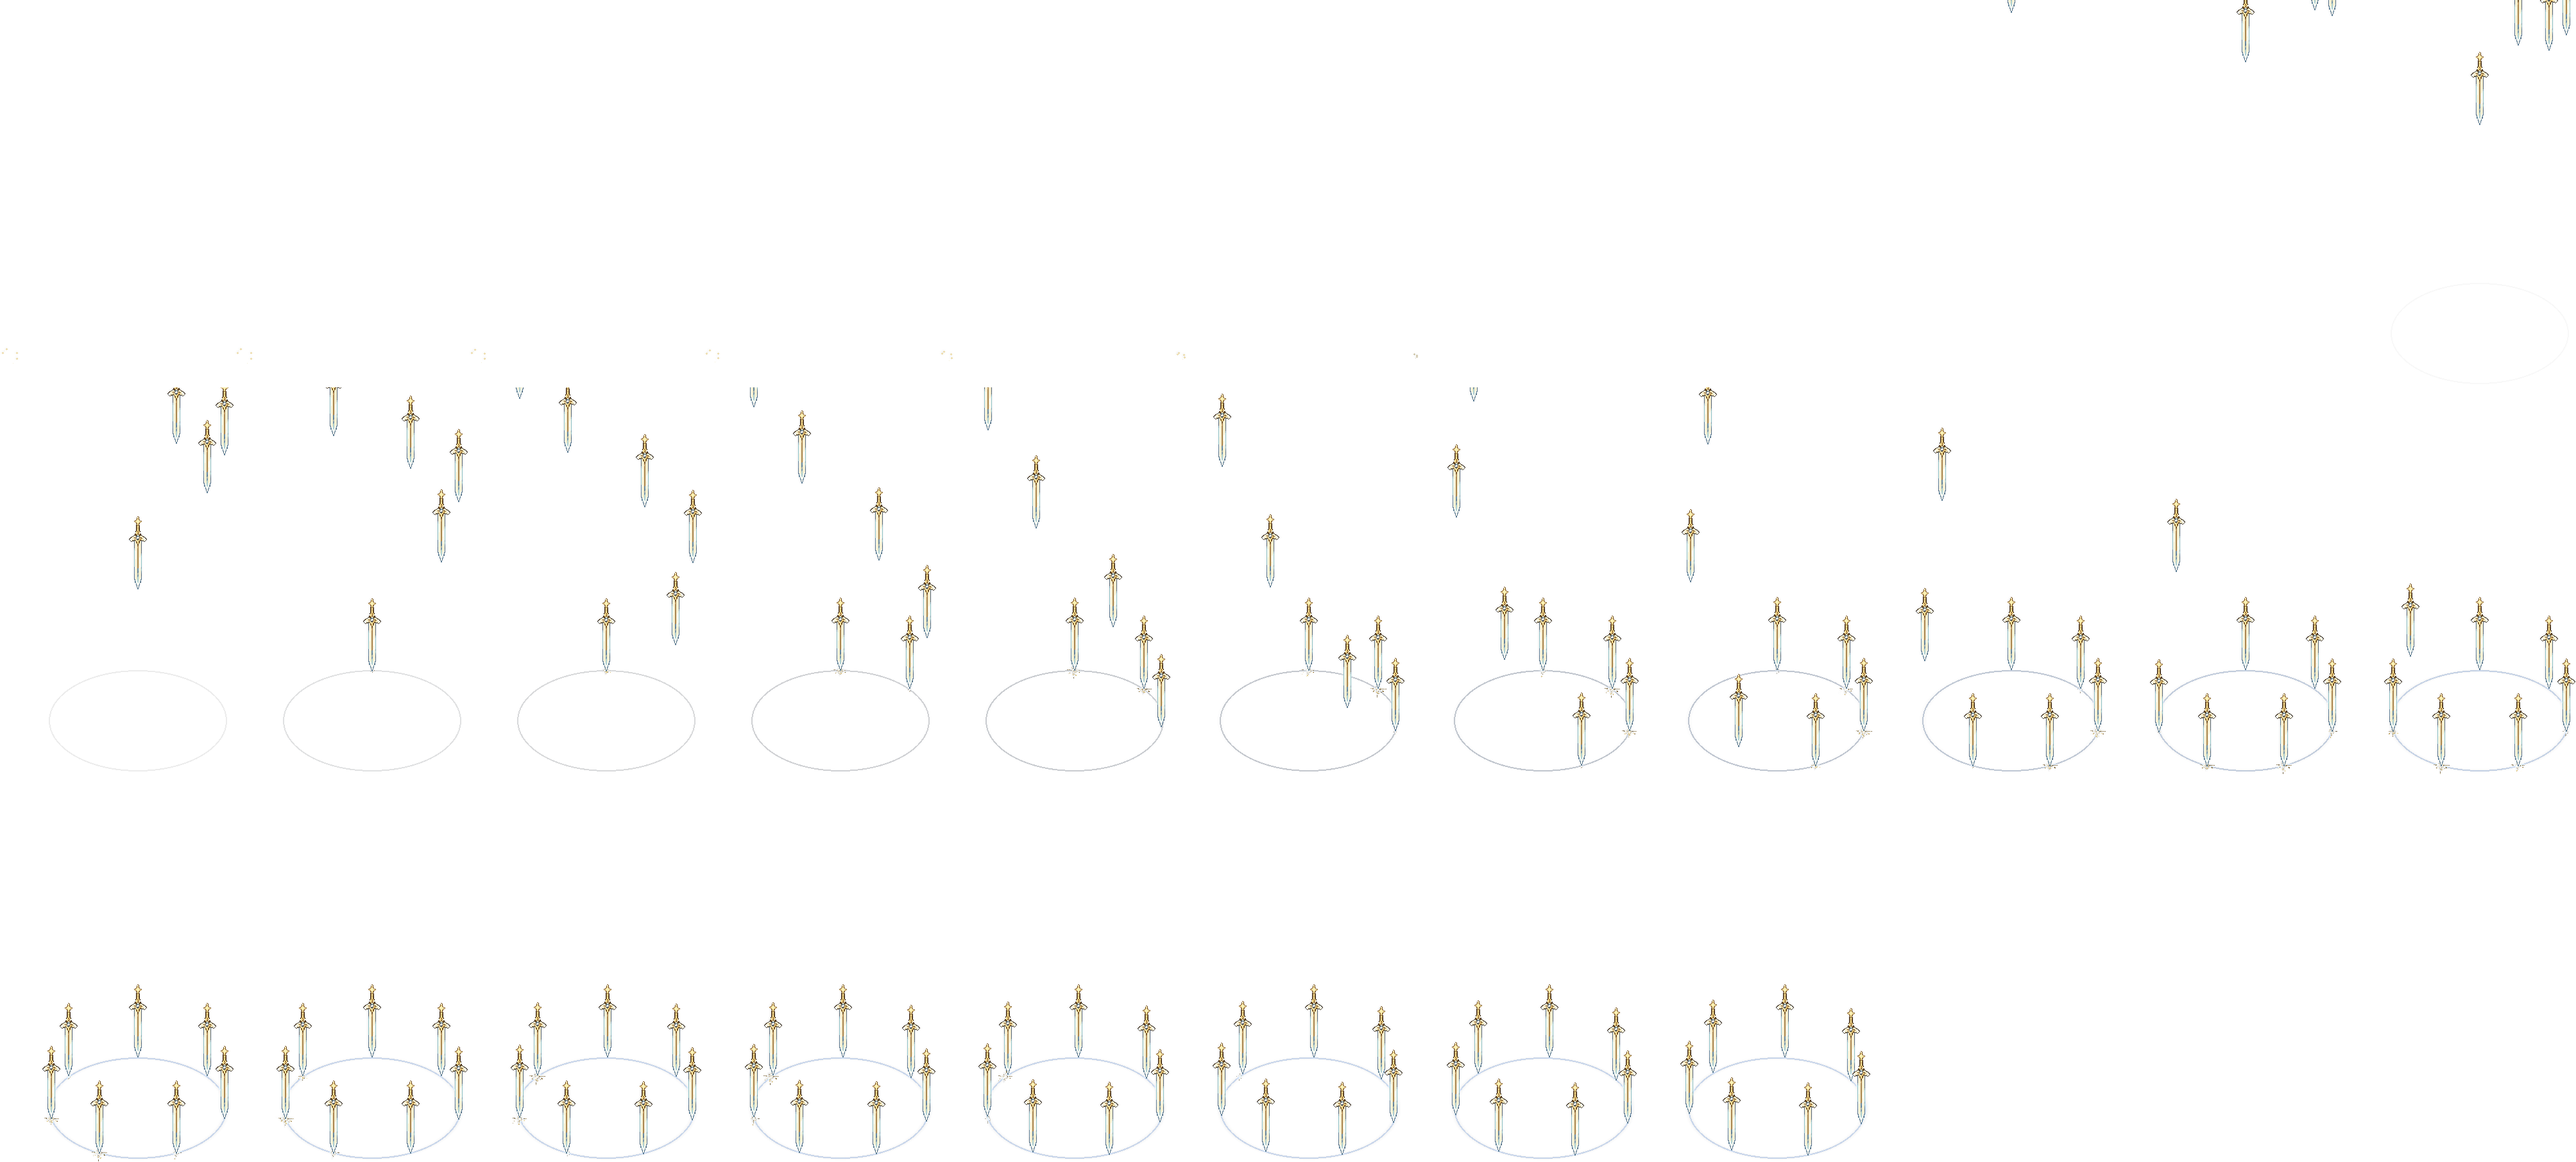
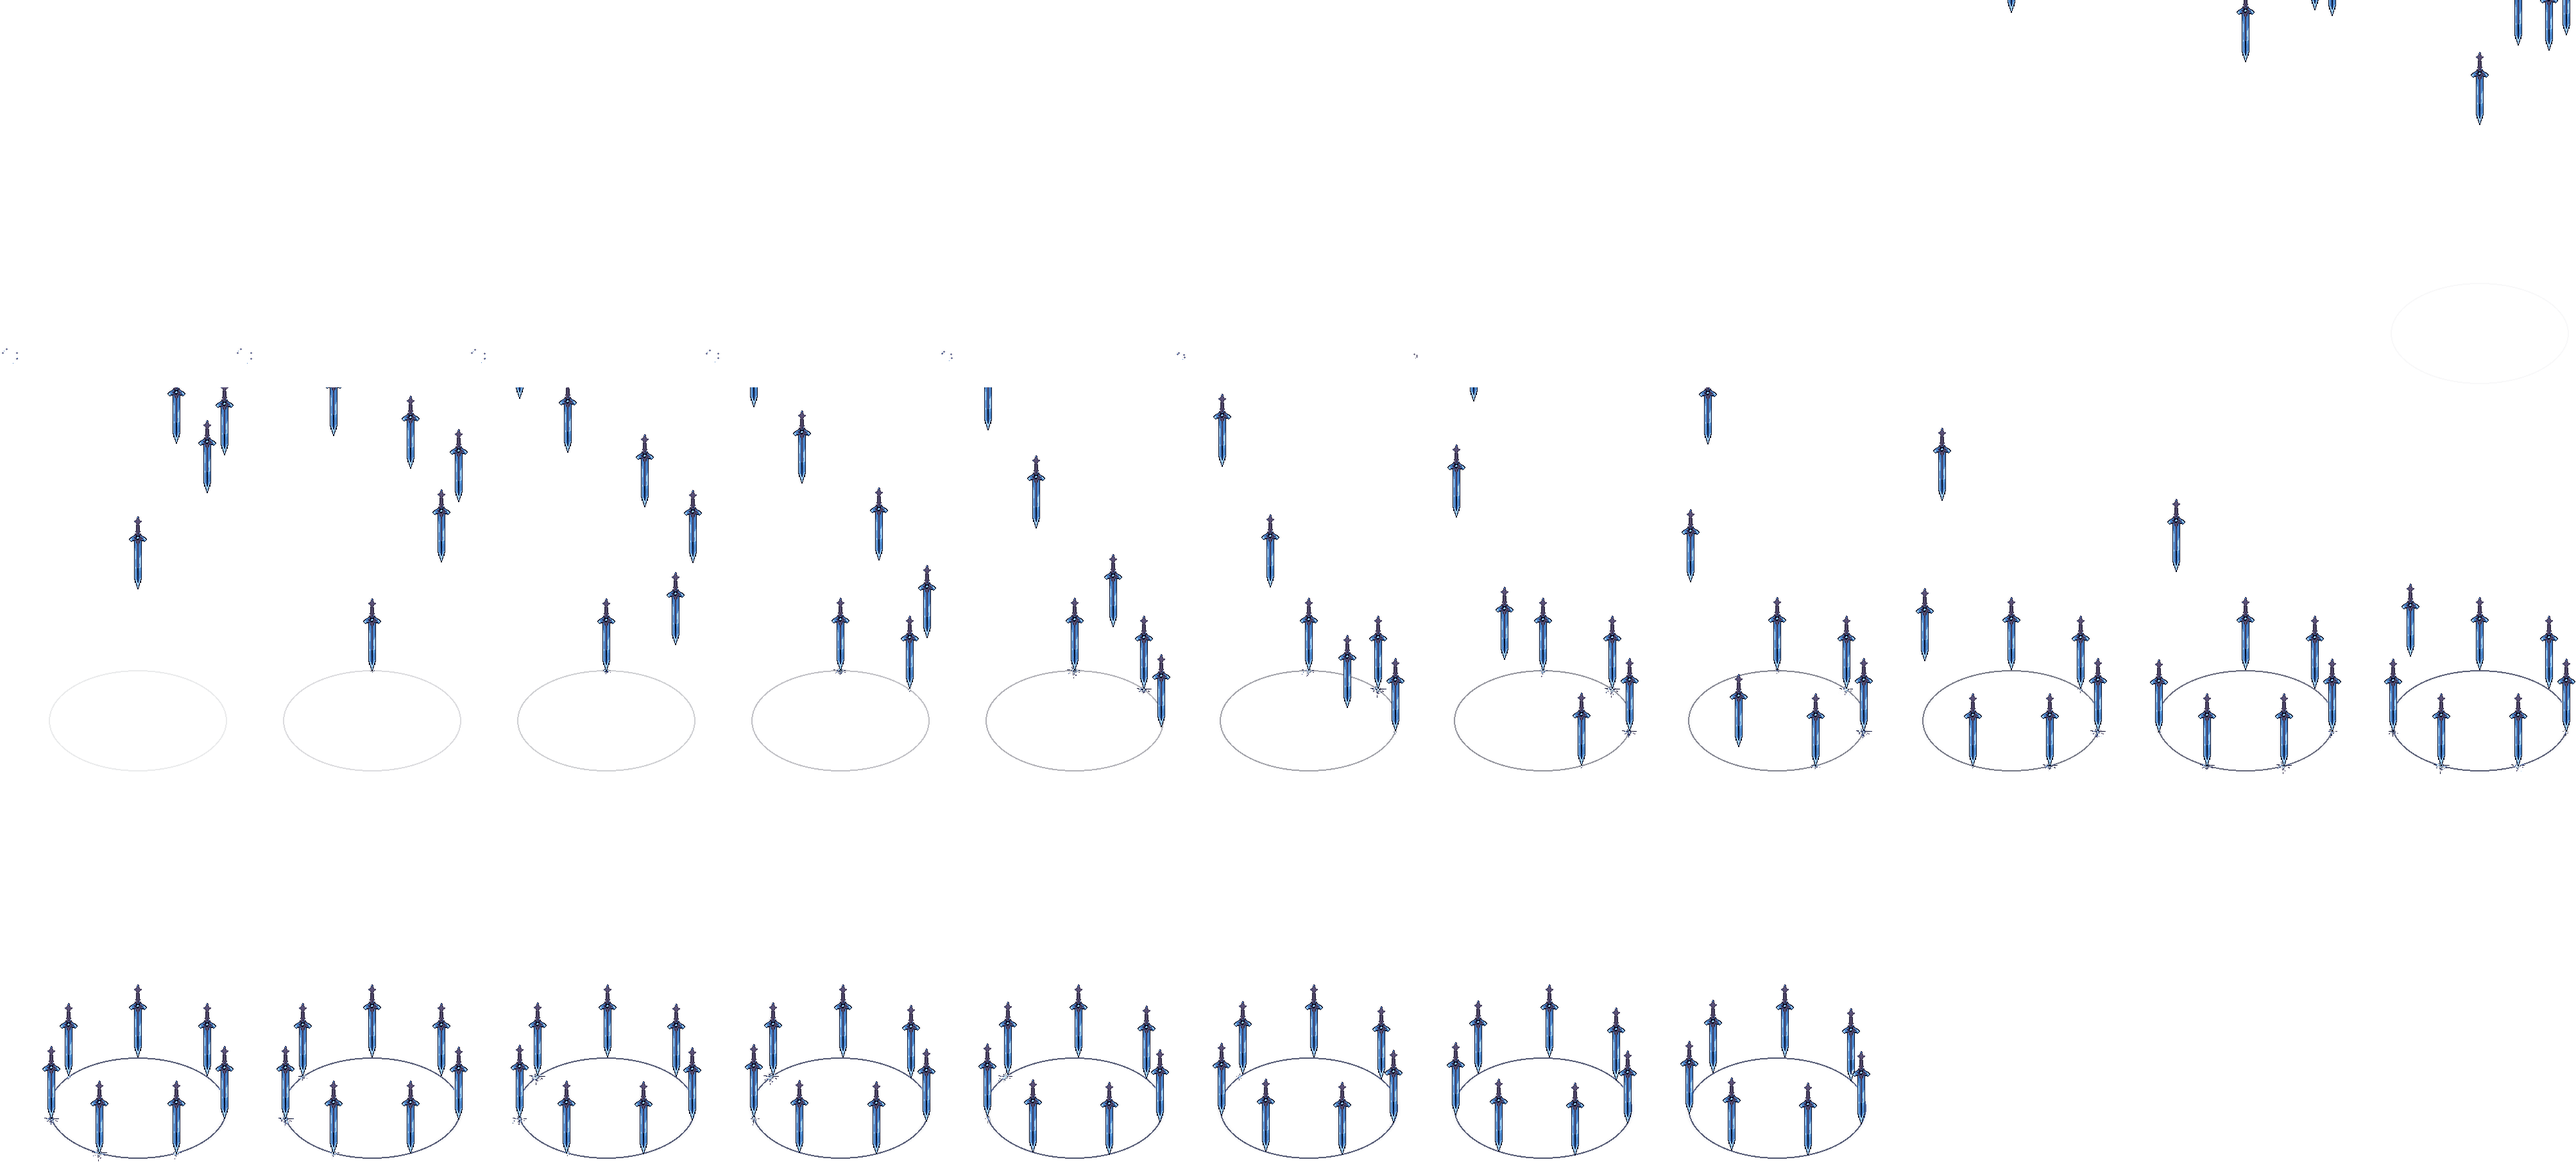
Thiên Xu: đổi sang tông xanh đen mực đồng bộ cự kiếm
Claude-Session: https://claude.ai/code/session_01MYwTvK6dULdzXHFPeBSgyd

diff --git a/cong_cu/claude/tx_recolor.py b/cong_cu/claude/tx_recolor.py
@@ -1,0 +1,22 @@
+"""Đổi màu Thiên Xu (tx_in/tx_loop/tx_out) từ kiếm vàng-trắng sang xanh đen mực như cự kiếm Mực Ảnh (24/11). Gốc: nguon/vfx_goc/tx_*_vang.png"""
+import numpy as np
+from PIL import Image
+def ramp(l):
+    # l 0..1 -> navy ink ramp, highlight xanh lam sáng
+    stops=[(0.0,(6,8,26)),(0.35,(16,26,70)),(0.6,(34,62,140)),(0.82,(96,170,235)),(1.0,(215,240,255))]
+    out=np.zeros(l.shape+(3,))
+    for (a,ca),(b,cb) in zip(stops,stops[1:]):
+        m=(l>=a)&(l<=b);t=((l-a)/(b-a))[m,None]
+        out[m]=np.array(ca)*(1-t)+np.array(cb)*t
+    return out
+for n in ('tx_in','tx_loop','tx_out'):
+    im=np.array(Image.open(f'nguon/vfx_goc/{n}_vang.png').convert('RGBA')).astype(float)
+    r,g,b,a=im[...,0],im[...,1],im[...,2],im[...,3]
+    mx=im[...,:3].max(-1);mn=im[...,:3].min(-1);sat=(mx-mn)/np.maximum(mx,1)
+    lum=(0.3*r+0.59*g+0.11*b)/255
+    gold=(r>b+25)&(sat>0.28)             # chuôi/hộ thủ vàng -> sắt tối viền đồng nhạt
+    col=ramp(np.clip(lum,0,1)**4.6)
+    iron=np.stack([28+70*lum,26+60*lum,46+80*lum],-1)
+    col=np.where(gold[...,None],iron,col)
+    res=np.dstack([col,a]);Image.fromarray(res.astype(np.uint8),'RGBA').save(f'game/assets/vfx/{n}.png',optimize=True)
+    print(n,'ok')

diff --git a/CLAUDE.md b/CLAUDE.md
@@ -267,3 +267,4 @@ Chủ game gửi ảnh sảnh iPhone ngang (~664×307, trong trình duyệt nên
 - Test: `scratchpad/hpp.js` (12 s ở Luyện Công: hpN tăng, 1→3 kiếm, mỗi kiếm đếm ngược đời). Kiếm bay không còn aura (nhớ lại luật aura chỉ ở vũ khí cầm tay). Chưa cân lại DPS (trước đó kiếm tự có 6 s trên 9 s hồi; nay phụ thuộc chí mạng/đòn thường). Hoàn nguyên: lấy lại `cast` cũ của k3 trong lịch sử git (commit trước "Hồi Phong nội tại").
 - **VIỆC CÒN TREO (chủ game 24/11): CÂN BẰNG làm SAU.** Chưa cân lại: A/B/C nhanh hơn (~+16-20% DPS Kiếm), cự kiếm Vạn Kiếm (+sát thương đòn kết), Hồi Phong nội tại, Ngộ Không. Không tự chỉnh số liệu cho đến khi chủ game ra lệnh.
 - (24/11 đêm) **Cự kiếm Vạn Kiếm vẽ lại** (chủ game: nhỏ và vỡ nét): bản cũ là ảnh kiếm 77px phóng ×3,4 nên vỡ. Mới: PixelLab `create-image-pixflux` 96x256 (3 mẫu seed 3/11/29 = 3 lượt, chọn seed 3), lưỡi xanh đen có vệt sáng, hộ thủ cong, ngọc xanh ở đầu chuôi. `game/assets/wpn/cukiem.png` (60x242 sau cắt), vẽ ×1,3 (không dùng ×2/×1,5: cao 484/363 px làm cán và hộ thủ tràn khỏi mép trên màn). Dùng cho mọi vũ khí (không theo kiếm cầm tay). Bản cũ (kiếm cầm tay phóng to) còn làm dự phòng khi ảnh chưa tải. Nguồn: `nguon/pixellab/mucxanh/o3/`. Ảnh: `nguon/tham_chieu/cukiem_moi.png`.
+- (24/11 đêm) **Thiên Xu đồng bộ màu với cự kiếm Mực Ảnh:** đổi bảng màu 3 sheet `tx_in/tx_loop/tx_out` từ kiếm vàng-trắng sang xanh đen mực (lưỡi xanh đậm vệt sáng lam, chuôi sắt tối, vòng elip xanh đen) bằng `cong_cu/claude/tx_recolor.py`. Gốc vàng: `nguon/vfx_goc/tx_*_vang.png` (chép đè lại vào `game/assets/vfx/` để hoàn nguyên). CHỈ đổi màu: hình kiếm vẫn là thanh kiếm gói Wuxia (đã vẽ sẵn trong ảnh, không thay hình từng thanh được); muốn đúng dáng cự kiếm thì phải dựng lại vòng kiếm bằng code bằng `cukiem.png` hoặc tạo bằng PixelLab. Ảnh: `nguon/tham_chieu/thienxu_mau_muc.png`.
